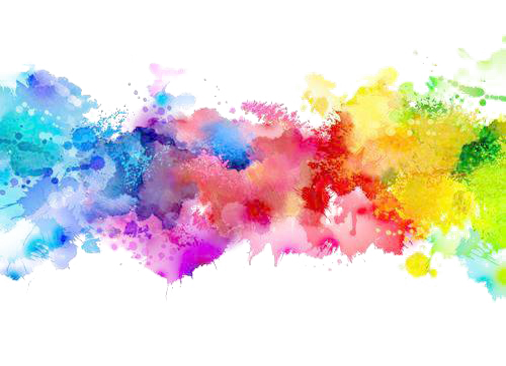
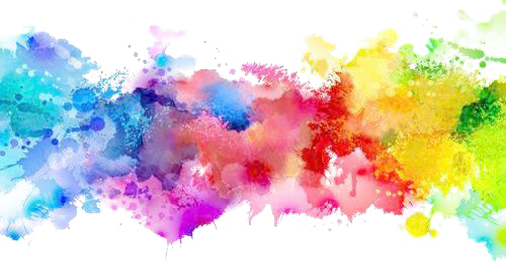
adjust top rainbow to look prettier and take slightly less space

diff --git a/global/css/global.css b/global/css/global.css
@@ -3,7 +3,7 @@ html{
   background-color: white;
   background-image: url("../pictures/background_header.png");
   background-repeat: no-repeat;
-  background-size: 100% 33vh;
+  background-size: 100% 30vh;
   cursor: default;
 }
 
